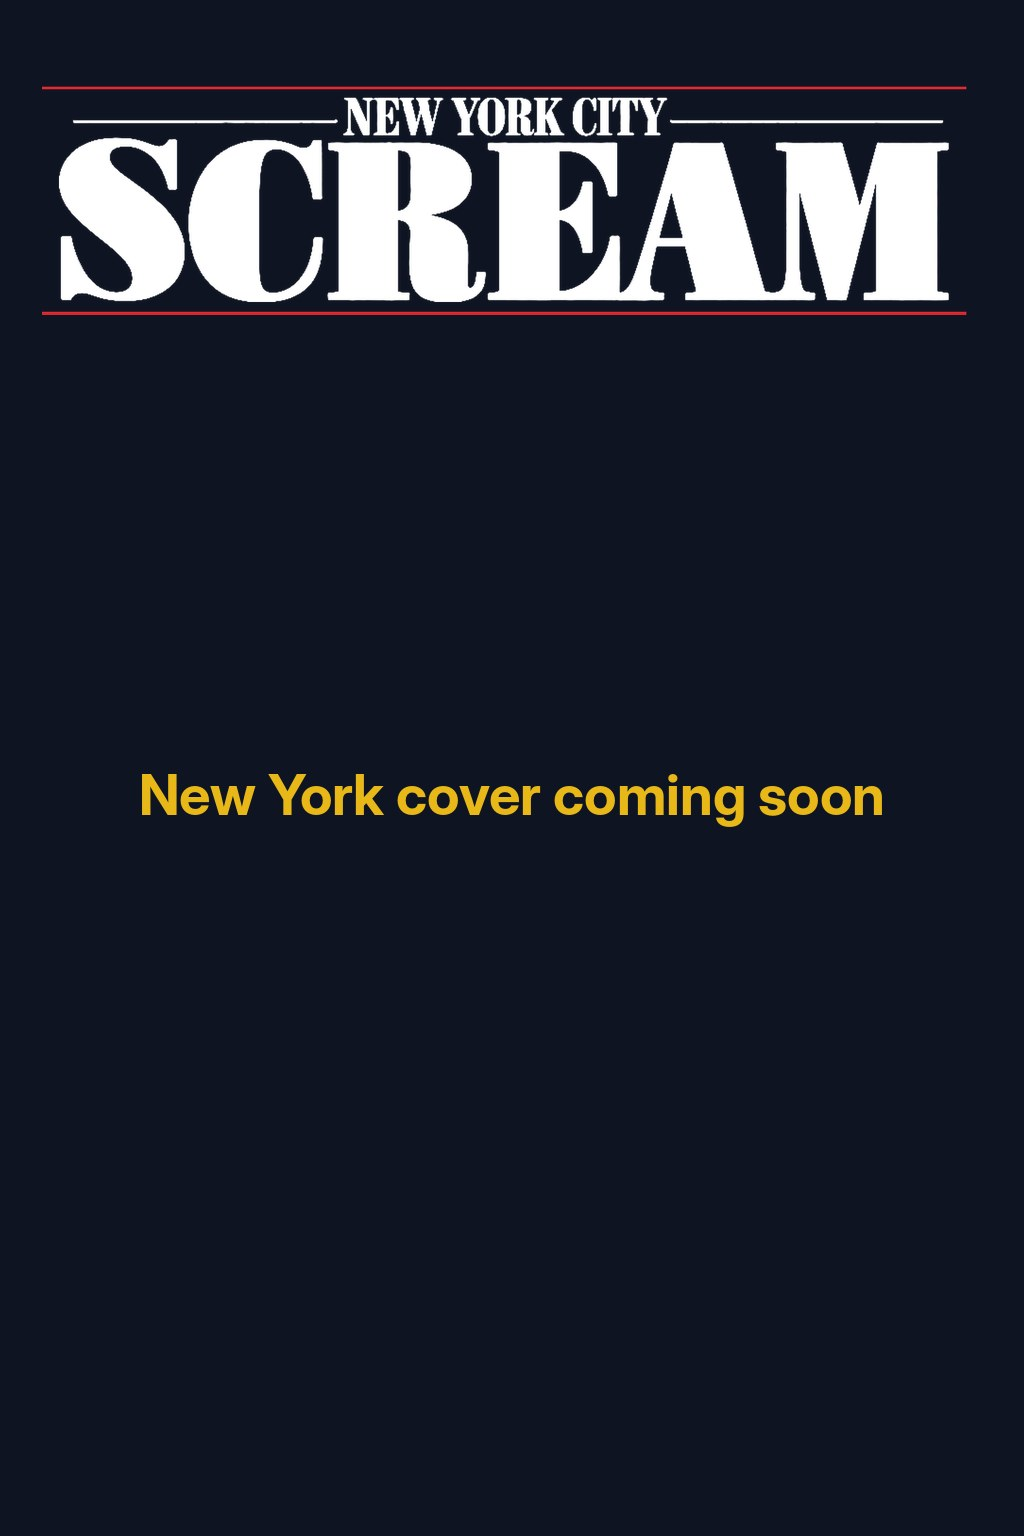
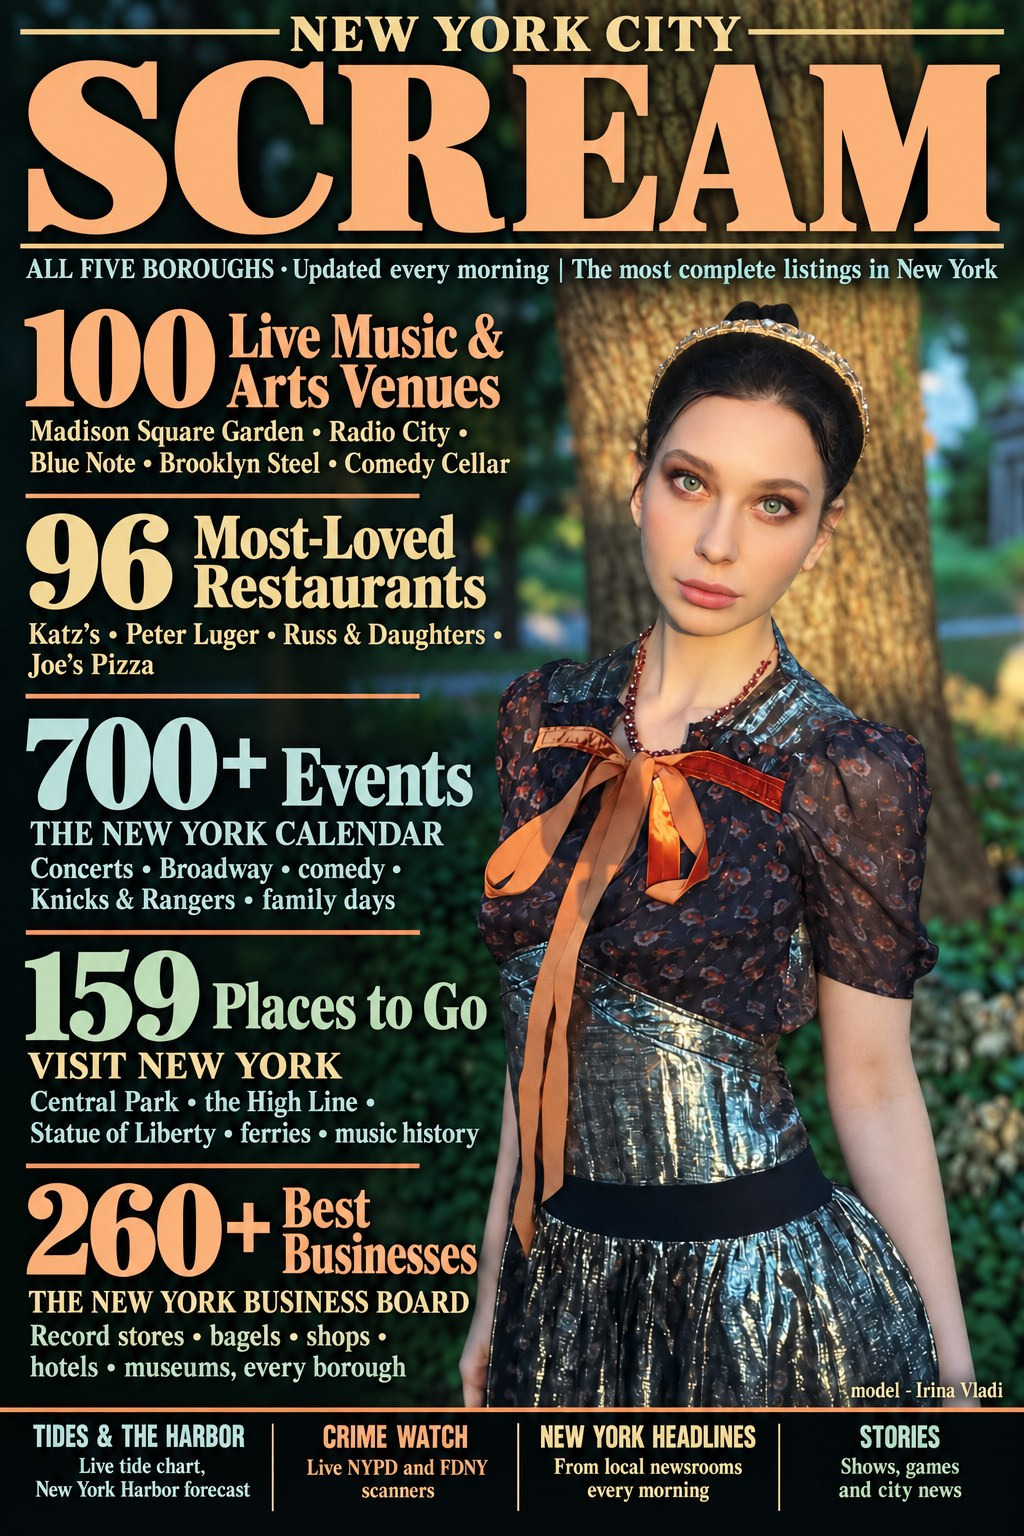
NYC cover (Irina Vladi)
Claude-Session: https://claude.ai/code/session_01Rvhfw57S8LJQmjjH2L4ZDg

diff --git a/index.html b/index.html
@@ -1390,7 +1390,7 @@ const CAL=[];
 const SCENE=[];
 const UPDATED="Oct 21, 2026";
 const COVERS=[];
-const ISSUES=[{no:1,month:'current',src:"img/cover-scream-live.jpg?v=1",lines:[]}];
+const ISSUES=[{no:1,month:'current',src:"img/cover-scream-live.jpg?v=2",lines:[]}];
 const CUR=ISSUES[ISSUES.length-1];try{ISSUES.forEach(I=>{I.lines=I.lines.filter(l=>!window.EXPIRED.has(l[0]))})}catch(_){}
 const VENUES=[];
 const VST=/*VST_START*/{}/*VST_END*/;
